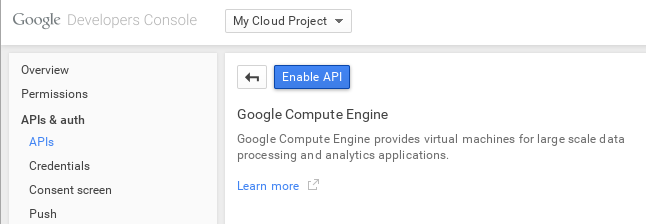
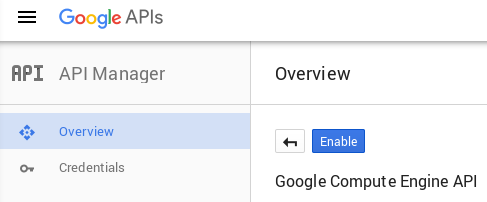
Update GCE instructions
Fixes GH-574, GH-657

diff --git a/_includes/manuals/1.8/5.2.4_cr_gce.md b/_includes/manuals/1.8/5.2.4_cr_gce.md
@@ -1,6 +1,6 @@
-* Requires client e-mail address of an authorised Google Cloud Console client ID is entered in the new compute resource screen and its associated .p12 private key file is manually transferred to the foreman server. 
+* Requires client e-mail address of an authorised Google Cloud Console client ID is entered in the new compute resource screen and its associated .p12 private key file is manually transferred to the foreman server.
 * The certificate must be stored in a location the foreman user account has permission to read.
-* If your server enforces SELinux ensure the context is suitable or relabel it using restorecon -vv /usr/share/foreman/gce.p12
+* If your server enforces SELinux ensure the context is suitable or relabel it using `restorecon -vv /usr/share/foreman/gce.p12`
 * Specify the location *on the foreman server* as the certificate path value e.g /usr/share/foreman/gce.p12
 * Ensure images are associated under the *Images* tab on the compute resource.
 * Add a provisioning template of type *finish* which will be executed over SSH on the new image.
@@ -10,23 +10,24 @@
 
 #### Setting up the cloud project
 
-All Google Compute Engine access is contained within a "project" set up via the Google Developers Console.  Access [the Google Developers Console](https://console.developers.google.com/), and click *Create Project*.
+All Google Compute Engine access is contained within a "project" set up via the Google Developers Console.  Access [the Google Developers Console](https://console.developers.google.com/iam-admin/projects), and click *Create Project*.
 
 ![Create Project](/static/images/screenshots/gce/create_project.png)
 
-In the project settings, enable the Compute Engine feature by clicking one of the sections below *Compute Engine* in the left hand pane.  This will trigger an initialization job.
+By default, your project will have the Compute Engine and App Engine services enabled.
+Now go to [the API manager](https://console.developers.google.com/apis/api/compute_component), and select the Google Compute Engine API.
 
-![Initializing Compute Engine](/static/images/screenshots/gce/enable_compute.png)
+![API Manager](/static/images/screenshots/gce/api_manager.png)
 
-Next, under *APIs &amp; auth*, then *APIs*, click the *Enable API* button.
+Next, under *APIs &amp; auth*, then *APIs*, click the *Enable* button.
 
 ![Enable API](/static/images/screenshots/gce/enable_api.png)
 
-Under *Credentials*, click *Create new Client ID* in the OAuth section and select *Service account* in the popup box.  A new account will be created for Foreman to use.
+Under *Credentials*, click *Create Credentials > Create service account key* and choose your service account for Compute Engine.
 
 ![Service account](/static/images/screenshots/gce/create_account.png)
 
-Click *Generate new P12 key* and save the new .p12 file.  This should be uploaded to the Foreman server to a location that the 'foreman' user can read, such as `/usr/share/foreman/gce.p12`.
+Click *Generate new P12 key* and save the new .p12 file.  This should be uploaded to the Foreman server to a location that the 'foreman' user can read, such as `/usr/share/foreman/gce.p12`. You don't need to provide any password to Foreman to use this PKCS12 key.
 
 <div class="alert alert-info">Change the .p12 file owner to 'foreman' and chmod 0600 for security.  If your server uses SELinux ensure the context is suitable or relabel it using restorecon -vv /usr/share/foreman/gce.p12</div>
 
@@ -35,5 +36,5 @@ Click *Generate new P12 key* and save the new .p12 file.  This should be uploade
 In Foreman, under *Infrastructure > Compute resources > New compute resource*, select *Google* from the provider dropdown menu and fill in the GCE-specific fields as follows:
 
 * *Google Project ID:* shown on the project overview page in the GCE console, e.g. "nomadic-rite-396"
-* *Client Email:* shown on the *Credentials* page after creating the service account as *Email address*, e.g. "543...@developer.gserviceaccount.com"
+* *Client Email:* shown on the [*Credentials* page](https://console.developers.google.com/iam-admin/serviceaccounts/) after creating the service account as *Service account ID*, e.g. "543...@developer.gserviceaccount.com"
 * *Certificate path:* full path of the .p12 file stored on the Foreman server, e.g. /usr/share/foreman/gce.p12

diff --git a/_includes/manuals/1.9/5.2.4_cr_gce.md b/_includes/manuals/1.9/5.2.4_cr_gce.md
@@ -1,6 +1,6 @@
-* Requires client e-mail address of an authorised Google Cloud Console client ID is entered in the new compute resource screen and its associated .p12 private key file is manually transferred to the foreman server. 
+* Requires client e-mail address of an authorised Google Cloud Console client ID is entered in the new compute resource screen and its associated .p12 private key file is manually transferred to the foreman server.
 * The certificate must be stored in a location the foreman user account has permission to read.
-* If your server enforces SELinux ensure the context is suitable or relabel it using restorecon -vv /usr/share/foreman/gce.p12
+* If your server enforces SELinux ensure the context is suitable or relabel it using `restorecon -vv /usr/share/foreman/gce.p12`
 * Specify the location *on the foreman server* as the certificate path value e.g /usr/share/foreman/gce.p12
 * Ensure images are associated under the *Images* tab on the compute resource.
 * Add a provisioning template of type *finish* which will be executed over SSH on the new image.
@@ -10,23 +10,24 @@
 
 #### Setting up the cloud project
 
-All Google Compute Engine access is contained within a "project" set up via the Google Developers Console.  Access [the Google Developers Console](https://console.developers.google.com/), and click *Create Project*.
+All Google Compute Engine access is contained within a "project" set up via the Google Developers Console.  Access [the Google Developers Console](https://console.developers.google.com/iam-admin/projects), and click *Create Project*.
 
 ![Create Project](/static/images/screenshots/gce/create_project.png)
 
-In the project settings, enable the Compute Engine feature by clicking one of the sections below *Compute Engine* in the left hand pane.  This will trigger an initialization job.
+By default, your project will have the Compute Engine and App Engine services enabled.
+Now go to [the API manager](https://console.developers.google.com/apis/api/compute_component), and select the Google Compute Engine API.
 
-![Initializing Compute Engine](/static/images/screenshots/gce/enable_compute.png)
+![API Manager](/static/images/screenshots/gce/api_manager.png)
 
-Next, under *APIs &amp; auth*, then *APIs*, click the *Enable API* button.
+Next, under *APIs &amp; auth*, then *APIs*, click the *Enable* button.
 
 ![Enable API](/static/images/screenshots/gce/enable_api.png)
 
-Under *Credentials*, click *Create new Client ID* in the OAuth section and select *Service account* in the popup box.  A new account will be created for Foreman to use.
+Under *Credentials*, click *Create Credentials > Create service account key* and choose your service account for Compute Engine.
 
 ![Service account](/static/images/screenshots/gce/create_account.png)
 
-Click *Generate new P12 key* and save the new .p12 file.  This should be uploaded to the Foreman server to a location that the 'foreman' user can read, such as `/usr/share/foreman/gce.p12`.
+Click *Generate new P12 key* and save the new .p12 file.  This should be uploaded to the Foreman server to a location that the 'foreman' user can read, such as `/usr/share/foreman/gce.p12`. You don't need to provide any password to Foreman to use this PKCS12 key.
 
 <div class="alert alert-info">Change the .p12 file owner to 'foreman' and chmod 0600 for security.  If your server uses SELinux ensure the context is suitable or relabel it using restorecon -vv /usr/share/foreman/gce.p12</div>
 
@@ -35,5 +36,5 @@ Click *Generate new P12 key* and save the new .p12 file.  This should be uploade
 In Foreman, under *Infrastructure > Compute resources > New compute resource*, select *Google* from the provider dropdown menu and fill in the GCE-specific fields as follows:
 
 * *Google Project ID:* shown on the project overview page in the GCE console, e.g. "nomadic-rite-396"
-* *Client Email:* shown on the *Credentials* page after creating the service account as *Email address*, e.g. "543...@developer.gserviceaccount.com"
+* *Client Email:* shown on the [*Credentials* page](https://console.developers.google.com/iam-admin/serviceaccounts/) after creating the service account as *Service account ID*, e.g. "543...@developer.gserviceaccount.com"
 * *Certificate path:* full path of the .p12 file stored on the Foreman server, e.g. /usr/share/foreman/gce.p12

diff --git a/_includes/manuals/1.10/5.2.4_cr_gce.md b/_includes/manuals/1.10/5.2.4_cr_gce.md
@@ -1,6 +1,6 @@
 * Requires client e-mail address of an authorised Google Cloud Console client ID is entered in the new compute resource screen and its associated .p12 private key file is manually transferred to the foreman server.
 * The certificate must be stored in a location the foreman user account has permission to read.
-* If your server enforces SELinux ensure the context is suitable or relabel it using restorecon -vv /usr/share/foreman/gce.p12
+* If your server enforces SELinux ensure the context is suitable or relabel it using `restorecon -vv /usr/share/foreman/gce.p12`
 * Specify the location *on the foreman server* as the certificate path value e.g /usr/share/foreman/gce.p12
 * Ensure images are associated under the *Images* tab on the compute resource.
 * Add a provisioning template of type *finish* which will be executed over SSH on the new image.
@@ -10,23 +10,24 @@
 
 #### Setting up the cloud project
 
-All Google Compute Engine access is contained within a "project" set up via the Google Developers Console.  Access [the Google Developers Console](https://console.developers.google.com/), and click *Create Project*.
+All Google Compute Engine access is contained within a "project" set up via the Google Developers Console.  Access [the Google Developers Console](https://console.developers.google.com/iam-admin/projects), and click *Create Project*.
 
 ![Create Project](/static/images/screenshots/gce/create_project.png)
 
-In the project settings, enable the Compute Engine feature by clicking one of the sections below *Compute Engine* in the left hand pane.  This will trigger an initialization job.
+By default, your project will have the Compute Engine and App Engine services enabled.
+Now go to [the API manager](https://console.developers.google.com/apis/api/compute_component), and select the Google Compute Engine API.
 
-![Initializing Compute Engine](/static/images/screenshots/gce/enable_compute.png)
+![API Manager](/static/images/screenshots/gce/api_manager.png)
 
-Next, under *APIs &amp; auth*, then *APIs*, click the *Enable API* button.
+Next, under *APIs &amp; auth*, then *APIs*, click the *Enable* button.
 
 ![Enable API](/static/images/screenshots/gce/enable_api.png)
 
-Under *Credentials*, click *Create new Client ID* in the OAuth section and select *Service account* in the popup box.  A new account will be created for Foreman to use.
+Under *Credentials*, click *Create Credentials > Create service account key* and choose your service account for Compute Engine.
 
 ![Service account](/static/images/screenshots/gce/create_account.png)
 
-Click *Generate new P12 key* and save the new .p12 file.  This should be uploaded to the Foreman server to a location that the 'foreman' user can read, such as `/usr/share/foreman/gce.p12`.
+Click *Generate new P12 key* and save the new .p12 file.  This should be uploaded to the Foreman server to a location that the 'foreman' user can read, such as `/usr/share/foreman/gce.p12`. You don't need to provide any password to Foreman to use this PKCS12 key.
 
 <div class="alert alert-info">Change the .p12 file owner to 'foreman' and chmod 0600 for security.  If your server uses SELinux ensure the context is suitable or relabel it using restorecon -vv /usr/share/foreman/gce.p12</div>
 
@@ -35,5 +36,5 @@ Click *Generate new P12 key* and save the new .p12 file.  This should be uploade
 In Foreman, under *Infrastructure > Compute resources > New compute resource*, select *Google* from the provider dropdown menu and fill in the GCE-specific fields as follows:
 
 * *Google Project ID:* shown on the project overview page in the GCE console, e.g. "nomadic-rite-396"
-* *Client Email:* shown on the *Credentials* page after creating the service account as *Email address*, e.g. "543...@developer.gserviceaccount.com"
+* *Client Email:* shown on the [*Credentials* page](https://console.developers.google.com/iam-admin/serviceaccounts/) after creating the service account as *Service account ID*, e.g. "543...@developer.gserviceaccount.com"
 * *Certificate path:* full path of the .p12 file stored on the Foreman server, e.g. /usr/share/foreman/gce.p12

diff --git a/_includes/manuals/1.11/5.2.4_cr_gce.md b/_includes/manuals/1.11/5.2.4_cr_gce.md
@@ -1,6 +1,6 @@
 * Requires client e-mail address of an authorised Google Cloud Console client ID is entered in the new compute resource screen and its associated .p12 private key file is manually transferred to the foreman server.
 * The certificate must be stored in a location the foreman user account has permission to read.
-* If your server enforces SELinux ensure the context is suitable or relabel it using restorecon -vv /usr/share/foreman/gce.p12
+* If your server enforces SELinux ensure the context is suitable or relabel it using `restorecon -vv /usr/share/foreman/gce.p12`
 * Specify the location *on the foreman server* as the certificate path value e.g /usr/share/foreman/gce.p12
 * Ensure images are associated under the *Images* tab on the compute resource.
 * Add a provisioning template of type *finish* which will be executed over SSH on the new image.
@@ -10,23 +10,24 @@
 
 #### Setting up the cloud project
 
-All Google Compute Engine access is contained within a "project" set up via the Google Developers Console.  Access [the Google Developers Console](https://console.developers.google.com/), and click *Create Project*.
+All Google Compute Engine access is contained within a "project" set up via the Google Developers Console.  Access [the Google Developers Console](https://console.developers.google.com/iam-admin/projects), and click *Create Project*.
 
 ![Create Project](/static/images/screenshots/gce/create_project.png)
 
-In the project settings, enable the Compute Engine feature by clicking one of the sections below *Compute Engine* in the left hand pane.  This will trigger an initialization job.
+By default, your project will have the Compute Engine and App Engine services enabled.
+Now go to [the API manager](https://console.developers.google.com/apis/api/compute_component), and select the Google Compute Engine API.
 
-![Initializing Compute Engine](/static/images/screenshots/gce/enable_compute.png)
+![API Manager](/static/images/screenshots/gce/api_manager.png)
 
-Next, under *APIs &amp; auth*, then *APIs*, click the *Enable API* button.
+Next, under *APIs &amp; auth*, then *APIs*, click the *Enable* button.
 
 ![Enable API](/static/images/screenshots/gce/enable_api.png)
 
-Under *Credentials*, click *Create new Client ID* in the OAuth section and select *Service account* in the popup box.  A new account will be created for Foreman to use.
+Under *Credentials*, click *Create Credentials > Create service account key* and choose your service account for Compute Engine.
 
 ![Service account](/static/images/screenshots/gce/create_account.png)
 
-Click *Generate new P12 key* and save the new .p12 file.  This should be uploaded to the Foreman server to a location that the 'foreman' user can read, such as `/usr/share/foreman/gce.p12`.
+Click *Generate new P12 key* and save the new .p12 file.  This should be uploaded to the Foreman server to a location that the 'foreman' user can read, such as `/usr/share/foreman/gce.p12`. You don't need to provide any password to Foreman to use this PKCS12 key.
 
 <div class="alert alert-info">Change the .p12 file owner to 'foreman' and chmod 0600 for security.  If your server uses SELinux ensure the context is suitable or relabel it using restorecon -vv /usr/share/foreman/gce.p12</div>
 
@@ -35,5 +36,5 @@ Click *Generate new P12 key* and save the new .p12 file.  This should be uploade
 In Foreman, under *Infrastructure > Compute resources > New compute resource*, select *Google* from the provider dropdown menu and fill in the GCE-specific fields as follows:
 
 * *Google Project ID:* shown on the project overview page in the GCE console, e.g. "nomadic-rite-396"
-* *Client Email:* shown on the *Credentials* page after creating the service account as *Email address*, e.g. "543...@developer.gserviceaccount.com"
+* *Client Email:* shown on the [*Credentials* page](https://console.developers.google.com/iam-admin/serviceaccounts/) after creating the service account as *Service account ID*, e.g. "543...@developer.gserviceaccount.com"
 * *Certificate path:* full path of the .p12 file stored on the Foreman server, e.g. /usr/share/foreman/gce.p12

diff --git a/_includes/manuals/1.12/5.2.4_cr_gce.md b/_includes/manuals/1.12/5.2.4_cr_gce.md
@@ -1,6 +1,6 @@
 * Requires client e-mail address of an authorised Google Cloud Console client ID is entered in the new compute resource screen and its associated .p12 private key file is manually transferred to the foreman server.
 * The certificate must be stored in a location the foreman user account has permission to read.
-* If your server enforces SELinux ensure the context is suitable or relabel it using restorecon -vv /usr/share/foreman/gce.p12
+* If your server enforces SELinux ensure the context is suitable or relabel it using `restorecon -vv /usr/share/foreman/gce.p12`
 * Specify the location *on the foreman server* as the certificate path value e.g /usr/share/foreman/gce.p12
 * Ensure images are associated under the *Images* tab on the compute resource.
 * Add a provisioning template of type *finish* which will be executed over SSH on the new image.
@@ -10,23 +10,24 @@
 
 #### Setting up the cloud project
 
-All Google Compute Engine access is contained within a "project" set up via the Google Developers Console.  Access [the Google Developers Console](https://console.developers.google.com/), and click *Create Project*.
+All Google Compute Engine access is contained within a "project" set up via the Google Developers Console.  Access [the Google Developers Console](https://console.developers.google.com/iam-admin/projects), and click *Create Project*.
 
 ![Create Project](/static/images/screenshots/gce/create_project.png)
 
-In the project settings, enable the Compute Engine feature by clicking one of the sections below *Compute Engine* in the left hand pane.  This will trigger an initialization job.
+By default, your project will have the Compute Engine and App Engine services enabled.
+Now go to [the API manager](https://console.developers.google.com/apis/api/compute_component), and select the Google Compute Engine API.
 
-![Initializing Compute Engine](/static/images/screenshots/gce/enable_compute.png)
+![API Manager](/static/images/screenshots/gce/api_manager.png)
 
-Next, under *APIs &amp; auth*, then *APIs*, click the *Enable API* button.
+Next, under *APIs &amp; auth*, then *APIs*, click the *Enable* button.
 
 ![Enable API](/static/images/screenshots/gce/enable_api.png)
 
-Under *Credentials*, click *Create new Client ID* in the OAuth section and select *Service account* in the popup box.  A new account will be created for Foreman to use.
+Under *Credentials*, click *Create Credentials > Create service account key* and choose your service account for Compute Engine.
 
 ![Service account](/static/images/screenshots/gce/create_account.png)
 
-Click *Generate new P12 key* and save the new .p12 file.  This should be uploaded to the Foreman server to a location that the 'foreman' user can read, such as `/usr/share/foreman/gce.p12`.
+Click *Generate new P12 key* and save the new .p12 file.  This should be uploaded to the Foreman server to a location that the 'foreman' user can read, such as `/usr/share/foreman/gce.p12`. You don't need to provide any password to Foreman to use this PKCS12 key.
 
 <div class="alert alert-info">Change the .p12 file owner to 'foreman' and chmod 0600 for security.  If your server uses SELinux ensure the context is suitable or relabel it using restorecon -vv /usr/share/foreman/gce.p12</div>
 
@@ -35,5 +36,5 @@ Click *Generate new P12 key* and save the new .p12 file.  This should be uploade
 In Foreman, under *Infrastructure > Compute resources > New compute resource*, select *Google* from the provider dropdown menu and fill in the GCE-specific fields as follows:
 
 * *Google Project ID:* shown on the project overview page in the GCE console, e.g. "nomadic-rite-396"
-* *Client Email:* shown on the *Credentials* page after creating the service account as *Email address*, e.g. "543...@developer.gserviceaccount.com"
+* *Client Email:* shown on the [*Credentials* page](https://console.developers.google.com/iam-admin/serviceaccounts/) after creating the service account as *Service account ID*, e.g. "543...@developer.gserviceaccount.com"
 * *Certificate path:* full path of the .p12 file stored on the Foreman server, e.g. /usr/share/foreman/gce.p12
